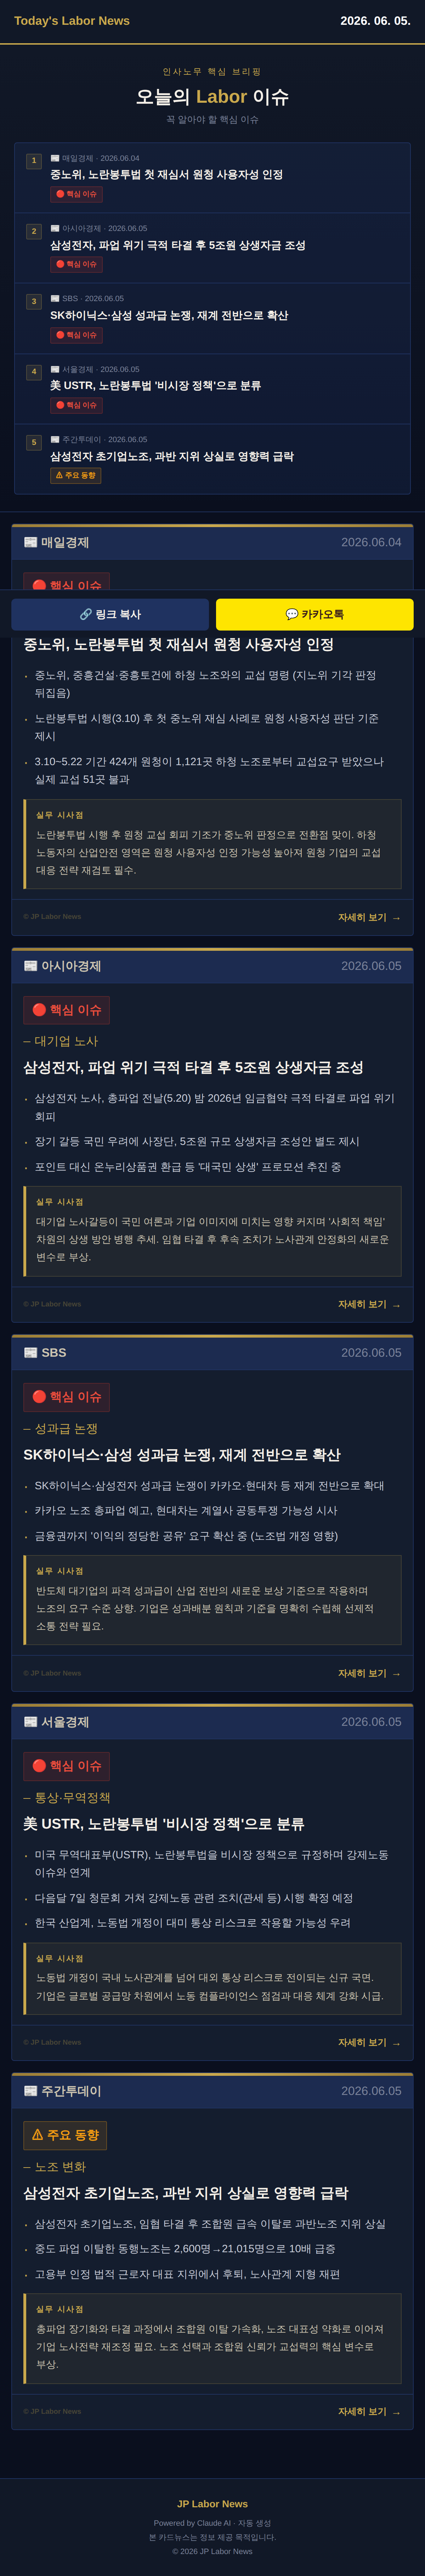
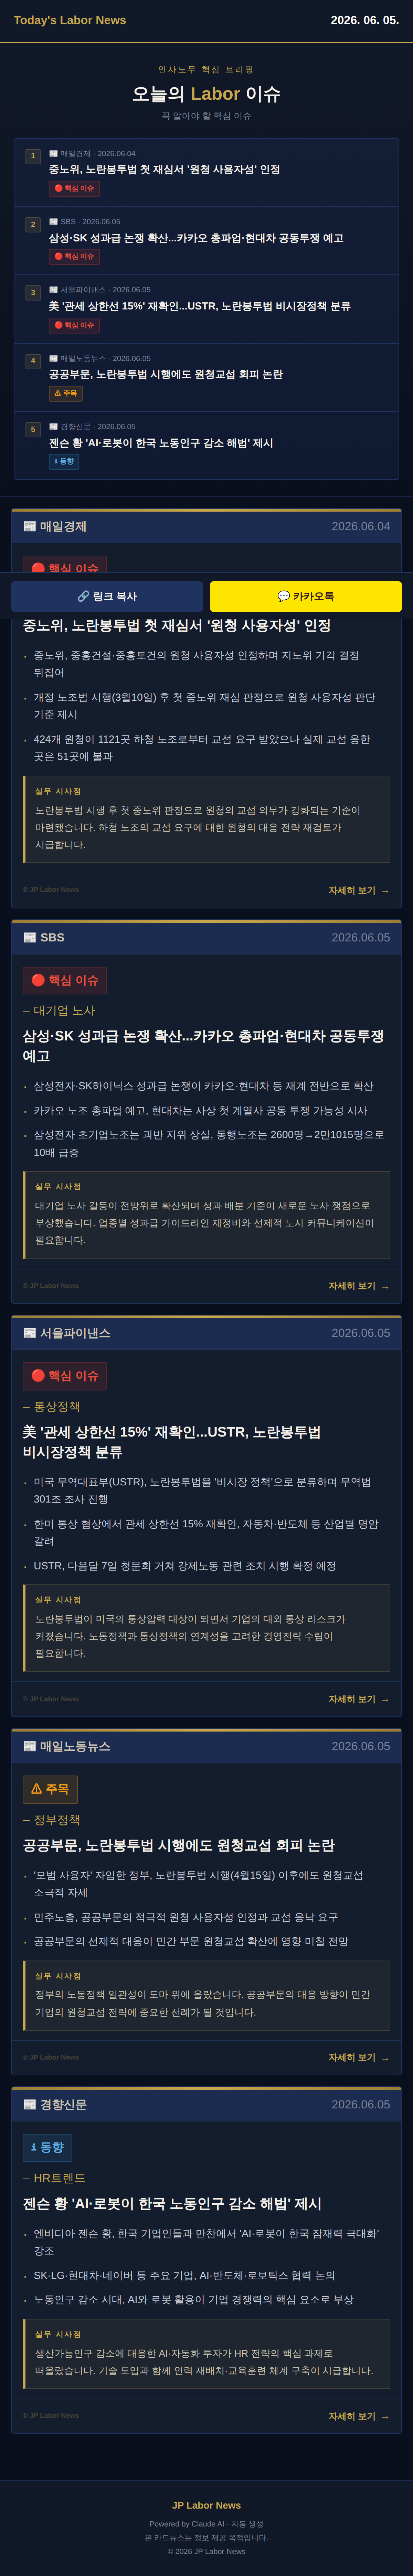
Auto: 20260605 카드뉴스 업데이트

diff --git a/cardnews/20260605/index.html b/cardnews/20260605/index.html
@@ -94,36 +94,36 @@ body{background:var(--navy);color:var(--text-body);font-family:'Apple SD Gothic 
   <div class="headline-num">1</div>
   <div class="headline-content">
     <div class="headline-source">📰 매일경제 · 2026.06.04</div>
-    <div class="headline-title">중노위, 노란봉투법 첫 재심서 원청 사용자성 인정</div>
+    <div class="headline-title">중노위, 노란봉투법 첫 재심서 '원청 사용자성' 인정</div>
     <span class="headline-tag tag-high">🔴 핵심 이슈</span>
   </div>
 </a><a class="headline-item" href="#news2">
   <div class="headline-num">2</div>
   <div class="headline-content">
-    <div class="headline-source">📰 아시아경제 · 2026.06.05</div>
-    <div class="headline-title">삼성전자, 파업 위기 극적 타결 후 5조원 상생자금 조성</div>
+    <div class="headline-source">📰 SBS · 2026.06.05</div>
+    <div class="headline-title">삼성·SK 성과급 논쟁 확산...카카오 총파업·현대차 공동투쟁 예고</div>
     <span class="headline-tag tag-high">🔴 핵심 이슈</span>
   </div>
 </a><a class="headline-item" href="#news3">
   <div class="headline-num">3</div>
   <div class="headline-content">
-    <div class="headline-source">📰 SBS · 2026.06.05</div>
-    <div class="headline-title">SK하이닉스·삼성 성과급 논쟁, 재계 전반으로 확산</div>
+    <div class="headline-source">📰 서울파이낸스 · 2026.06.05</div>
+    <div class="headline-title">美 '관세 상한선 15%' 재확인...USTR, 노란봉투법 비시장정책 분류</div>
     <span class="headline-tag tag-high">🔴 핵심 이슈</span>
   </div>
 </a><a class="headline-item" href="#news4">
   <div class="headline-num">4</div>
   <div class="headline-content">
-    <div class="headline-source">📰 서울경제 · 2026.06.05</div>
-    <div class="headline-title">美 USTR, 노란봉투법 '비시장 정책'으로 분류</div>
-    <span class="headline-tag tag-high">🔴 핵심 이슈</span>
+    <div class="headline-source">📰 매일노동뉴스 · 2026.06.05</div>
+    <div class="headline-title">공공부문, 노란봉투법 시행에도 원청교섭 회피 논란</div>
+    <span class="headline-tag tag-med">⚠ 주목</span>
   </div>
 </a><a class="headline-item" href="#news5">
   <div class="headline-num">5</div>
   <div class="headline-content">
-    <div class="headline-source">📰 주간투데이 · 2026.06.05</div>
-    <div class="headline-title">삼성전자 초기업노조, 과반 지위 상실로 영향력 급락</div>
-    <span class="headline-tag tag-med">⚠ 주요 동향</span>
+    <div class="headline-source">📰 경향신문 · 2026.06.05</div>
+    <div class="headline-title">젠슨 황 'AI·로봇이 한국 노동인구 감소 해법' 제시</div>
+    <span class="headline-tag tag-info">ℹ 동향</span>
   </div>
 </a></div>
 </section>
@@ -132,51 +132,51 @@ body{background:var(--navy);color:var(--text-body);font-family:'Apple SD Gothic 
   <div class="card-inner">
     <div class="risk-tag risk-high">🔴 핵심 이슈</div>
     <div class="card-category">노란봉투법</div>
-    <h2 class="card-title">중노위, 노란봉투법 첫 재심서 원청 사용자성 인정</h2>
-    <ul class="bullet-list"><li>중노위, 중흥건설·중흥토건에 하청 노조와의 교섭 명령 (지노위 기각 판정 뒤집음)</li><li>노란봉투법 시행(3.10) 후 첫 중노위 재심 사례로 원청 사용자성 판단 기준 제시</li><li>3.10~5.22 기간 424개 원청이 1,121곳 하청 노조로부터 교섭요구 받았으나 실제 교섭 51곳 불과</li></ul>
-    <div class="insight"><div class="insight-label">실무 시사점</div><div class="insight-text">노란봉투법 시행 후 원청 교섭 회피 기조가 중노위 판정으로 전환점 맞이. 하청 노동자의 산업안전 영역은 원청 사용자성 인정 가능성 높아져 원청 기업의 교섭 대응 전략 재검토 필수.</div></div>
+    <h2 class="card-title">중노위, 노란봉투법 첫 재심서 '원청 사용자성' 인정</h2>
+    <ul class="bullet-list"><li>중노위, 중흥건설·중흥토건의 원청 사용자성 인정하며 지노위 기각 결정 뒤집어</li><li>개정 노조법 시행(3월10일) 후 첫 중노위 재심 판정으로 원청 사용자성 판단 기준 제시</li><li>424개 원청이 1121곳 하청 노조로부터 교섭 요구 받았으나 실제 교섭 응한 곳은 51곳에 불과</li></ul>
+    <div class="insight"><div class="insight-label">실무 시사점</div><div class="insight-text">노란봉투법 시행 후 첫 중노위 판정으로 원청의 교섭 의무가 강화되는 기준이 마련됐습니다. 하청 노조의 교섭 요구에 대한 원청의 대응 전략 재검토가 시급합니다.</div></div>
   </div>
   <div class="read-more"><span class="wm-small">© JP Labor News</span><a href="https://www.mk.co.kr/article/12066327" target="_blank">자세히 보기</a></div>
 </div><div class="news-card" id="news2">
-  <div class="source-bar"><span class="source-name">📰 아시아경제</span><span class="source-date">2026.06.05</span></div>
-  <div class="card-inner">
-    <div class="risk-tag risk-high">🔴 핵심 이슈</div>
-    <div class="card-category">대기업 노사</div>
-    <h2 class="card-title">삼성전자, 파업 위기 극적 타결 후 5조원 상생자금 조성</h2>
-    <ul class="bullet-list"><li>삼성전자 노사, 총파업 전날(5.20) 밤 2026년 임금협약 극적 타결로 파업 위기 회피</li><li>장기 갈등 국민 우려에 사장단, 5조원 규모 상생자금 조성안 별도 제시</li><li>포인트 대신 온누리상품권 환급 등 '대국민 상생' 프로모션 추진 중</li></ul>
-    <div class="insight"><div class="insight-label">실무 시사점</div><div class="insight-text">대기업 노사갈등이 국민 여론과 기업 이미지에 미치는 영향 커지며 '사회적 책임' 차원의 상생 방안 병행 추세. 임협 타결 후 후속 조치가 노사관계 안정화의 새로운 변수로 부상.</div></div>
-  </div>
-  <div class="read-more"><span class="wm-small">© JP Labor News</span><a href="https://view.asiae.co.kr/article/2026060509413977040" target="_blank">자세히 보기</a></div>
-</div><div class="news-card" id="news3">
   <div class="source-bar"><span class="source-name">📰 SBS</span><span class="source-date">2026.06.05</span></div>
   <div class="card-inner">
     <div class="risk-tag risk-high">🔴 핵심 이슈</div>
-    <div class="card-category">성과급 논쟁</div>
-    <h2 class="card-title">SK하이닉스·삼성 성과급 논쟁, 재계 전반으로 확산</h2>
-    <ul class="bullet-list"><li>SK하이닉스·삼성전자 성과급 논쟁이 카카오·현대차 등 재계 전반으로 확대</li><li>카카오 노조 총파업 예고, 현대차는 계열사 공동투쟁 가능성 시사</li><li>금융권까지 '이익의 정당한 공유' 요구 확산 중 (노조법 개정 영향)</li></ul>
-    <div class="insight"><div class="insight-label">실무 시사점</div><div class="insight-text">반도체 대기업의 파격 성과급이 산업 전반의 새로운 보상 기준으로 작용하며 노조의 요구 수준 상향. 기업은 성과배분 원칙과 기준을 명확히 수립해 선제적 소통 전략 필요.</div></div>
+    <div class="card-category">대기업 노사</div>
+    <h2 class="card-title">삼성·SK 성과급 논쟁 확산...카카오 총파업·현대차 공동투쟁 예고</h2>
+    <ul class="bullet-list"><li>삼성전자·SK하이닉스 성과급 논쟁이 카카오·현대차 등 재계 전반으로 확산</li><li>카카오 노조 총파업 예고, 현대차는 사상 첫 계열사 공동 투쟁 가능성 시사</li><li>삼성전자 초기업노조는 과반 지위 상실, 동행노조는 2600명→2만1015명으로 10배 급증</li></ul>
+    <div class="insight"><div class="insight-label">실무 시사점</div><div class="insight-text">대기업 노사 갈등이 전방위로 확산되며 성과 배분 기준이 새로운 노사 쟁점으로 부상했습니다. 업종별 성과급 가이드라인 재정비와 선제적 노사 커뮤니케이션이 필요합니다.</div></div>
   </div>
   <div class="read-more"><span class="wm-small">© JP Labor News</span><a href="https://news.sbs.co.kr/news/endPage.do?news_id=N1008594935&plink=ORI&cooper=NAVER" target="_blank">자세히 보기</a></div>
-</div><div class="news-card" id="news4">
-  <div class="source-bar"><span class="source-name">📰 서울경제</span><span class="source-date">2026.06.05</span></div>
+</div><div class="news-card" id="news3">
+  <div class="source-bar"><span class="source-name">📰 서울파이낸스</span><span class="source-date">2026.06.05</span></div>
   <div class="card-inner">
     <div class="risk-tag risk-high">🔴 핵심 이슈</div>
-    <div class="card-category">통상·무역정책</div>
-    <h2 class="card-title">美 USTR, 노란봉투법 '비시장 정책'으로 분류</h2>
-    <ul class="bullet-list"><li>미국 무역대표부(USTR), 노란봉투법을 비시장 정책으로 규정하며 강제노동 이슈와 연계</li><li>다음달 7일 청문회 거쳐 강제노동 관련 조치(관세 등) 시행 확정 예정</li><li>한국 산업계, 노동법 개정이 대미 통상 리스크로 작용할 가능성 우려</li></ul>
-    <div class="insight"><div class="insight-label">실무 시사점</div><div class="insight-text">노동법 개정이 국내 노사관계를 넘어 대외 통상 리스크로 전이되는 신규 국면. 기업은 글로벌 공급망 차원에서 노동 컴플라이언스 점검과 대응 체계 강화 시급.</div></div>
+    <div class="card-category">통상정책</div>
+    <h2 class="card-title">美 '관세 상한선 15%' 재확인...USTR, 노란봉투법 비시장정책 분류</h2>
+    <ul class="bullet-list"><li>미국 무역대표부(USTR), 노란봉투법을 '비시장 정책'으로 분류하며 무역법 301조 조사 진행</li><li>한미 통상 협상에서 관세 상한선 15% 재확인, 자동차·반도체 등 산업별 명암 갈려</li><li>USTR, 다음달 7일 청문회 거쳐 강제노동 관련 조치 시행 확정 예정</li></ul>
+    <div class="insight"><div class="insight-label">실무 시사점</div><div class="insight-text">노란봉투법이 미국의 통상압력 대상이 되면서 기업의 대외 통상 리스크가 커졌습니다. 노동정책과 통상정책의 연계성을 고려한 경영전략 수립이 필요합니다.</div></div>
   </div>
-  <div class="read-more"><span class="wm-small">© JP Labor News</span><a href="https://www.sedaily.com/article/20052128?ref=naver" target="_blank">자세히 보기</a></div>
-</div><div class="news-card" id="news5">
-  <div class="source-bar"><span class="source-name">📰 주간투데이</span><span class="source-date">2026.06.05</span></div>
+  <div class="read-more"><span class="wm-small">© JP Labor News</span><a href="https://www.seoulfn.com/news/articleView.html?idxno=630414" target="_blank">자세히 보기</a></div>
+</div><div class="news-card" id="news4">
+  <div class="source-bar"><span class="source-name">📰 매일노동뉴스</span><span class="source-date">2026.06.05</span></div>
   <div class="card-inner">
-    <div class="risk-tag risk-med">⚠ 주요 동향</div>
-    <div class="card-category">노조 변화</div>
-    <h2 class="card-title">삼성전자 초기업노조, 과반 지위 상실로 영향력 급락</h2>
-    <ul class="bullet-list"><li>삼성전자 초기업노조, 임협 타결 후 조합원 급속 이탈로 과반노조 지위 상실</li><li>중도 파업 이탈한 동행노조는 2,600명→21,015명으로 10배 급증</li><li>고용부 인정 법적 근로자 대표 지위에서 후퇴, 노사관계 지형 재편</li></ul>
-    <div class="insight"><div class="insight-label">실무 시사점</div><div class="insight-text">총파업 장기화와 타결 과정에서 조합원 이탈 가속화, 노조 대표성 약화로 이어져 기업 노사전략 재조정 필요. 노조 선택과 조합원 신뢰가 교섭력의 핵심 변수로 부상.</div></div>
+    <div class="risk-tag risk-med">⚠ 주목</div>
+    <div class="card-category">정부정책</div>
+    <h2 class="card-title">공공부문, 노란봉투법 시행에도 원청교섭 회피 논란</h2>
+    <ul class="bullet-list"><li>'모범 사용자' 자임한 정부, 노란봉투법 시행(4월15일) 이후에도 원청교섭 소극적 자세</li><li>민주노총, 공공부문의 적극적 원청 사용자성 인정과 교섭 응낙 요구</li><li>공공부문의 선제적 대응이 민간 부문 원청교섭 확산에 영향 미칠 전망</li></ul>
+    <div class="insight"><div class="insight-label">실무 시사점</div><div class="insight-text">정부의 노동정책 일관성이 도마 위에 올랐습니다. 공공부문의 대응 방향이 민간 기업의 원청교섭 전략에 중요한 선례가 될 것입니다.</div></div>
   </div>
-  <div class="read-more"><span class="wm-small">© JP Labor News</span><a href="http://www.weeklytoday.com/news/articleView.html?idxno=778485" target="_blank">자세히 보기</a></div>
+  <div class="read-more"><span class="wm-small">© JP Labor News</span><a href="http://www.worklaw.co.kr/view/view.asp?accessSite=Naver&accessMethod=Search&accessMenu=News&in_cate=102&in_cate2=0&gopage=1&bi_pidx=39220" target="_blank">자세히 보기</a></div>
+</div><div class="news-card" id="news5">
+  <div class="source-bar"><span class="source-name">📰 경향신문</span><span class="source-date">2026.06.05</span></div>
+  <div class="card-inner">
+    <div class="risk-tag risk-info">ℹ 동향</div>
+    <div class="card-category">HR트렌드</div>
+    <h2 class="card-title">젠슨 황 'AI·로봇이 한국 노동인구 감소 해법' 제시</h2>
+    <ul class="bullet-list"><li>엔비디아 젠슨 황, 한국 기업인들과 만찬에서 'AI·로봇이 한국 잠재력 극대화' 강조</li><li>SK·LG·현대차·네이버 등 주요 기업, AI·반도체·로보틱스 협력 논의</li><li>노동인구 감소 시대, AI와 로봇 활용이 기업 경쟁력의 핵심 요소로 부상</li></ul>
+    <div class="insight"><div class="insight-label">실무 시사점</div><div class="insight-text">생산가능인구 감소에 대응한 AI·자동화 투자가 HR 전략의 핵심 과제로 떠올랐습니다. 기술 도입과 함께 인력 재배치·교육훈련 체계 구축이 시급합니다.</div></div>
+  </div>
+  <div class="read-more"><span class="wm-small">© JP Labor News</span><a href="https://www.khan.co.kr/article/202606051047001" target="_blank">자세히 보기</a></div>
 </div>
 
 <!-- ── 공유 바: 마지막 카드 아래, 푸터 위 ── -->